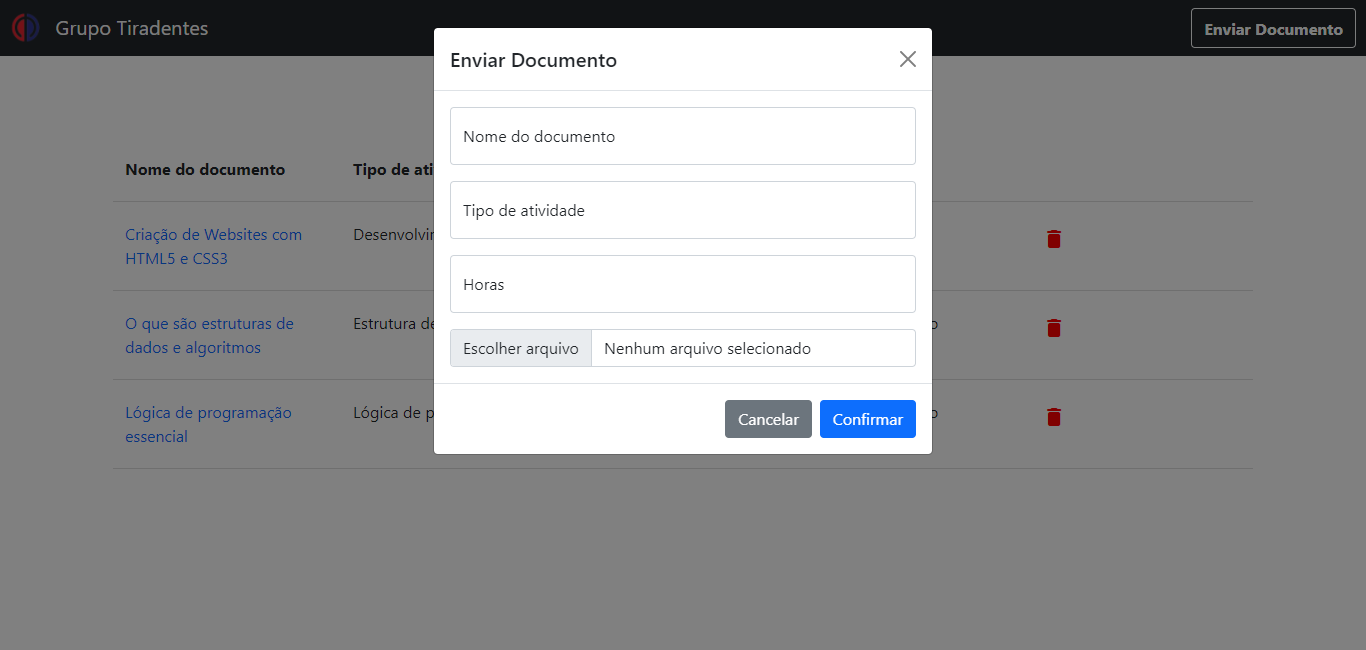
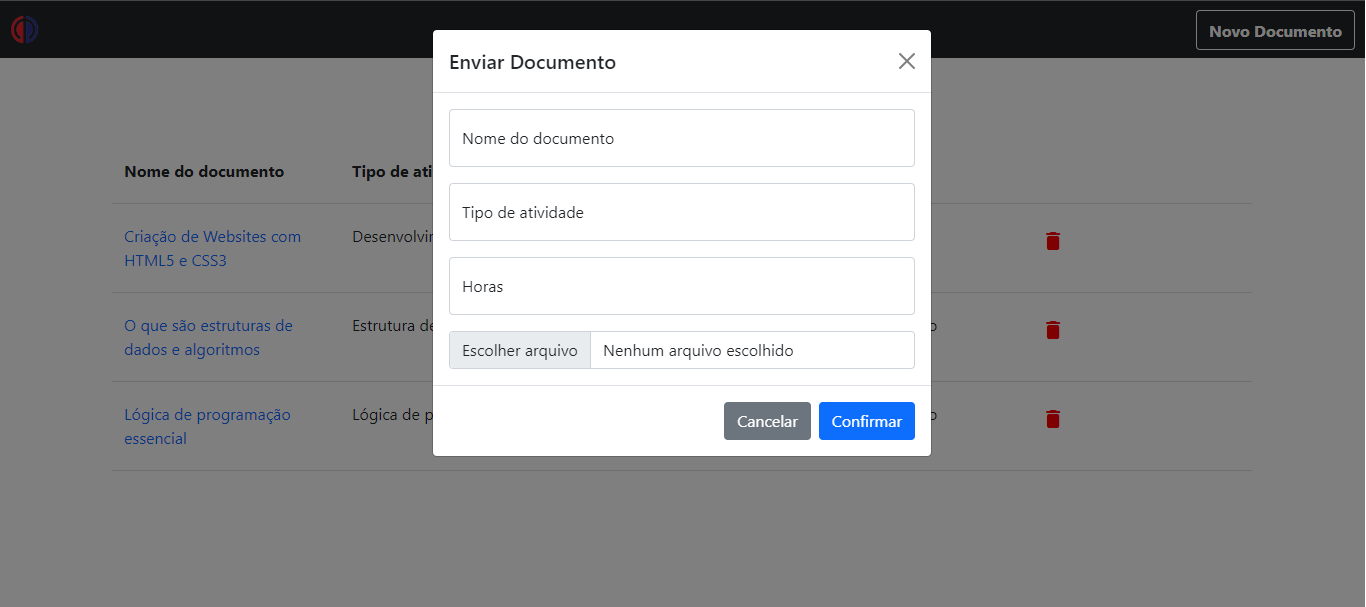
update README.md and screenshots images

diff --git a/index.php b/index.php
@@ -42,12 +42,11 @@ $select = $pdo->query("SELECT * FROM documentos");
         <div class="container" id="nav-container">
             <nav class="navbar navbar-light bg-dark fixed-top">
                 <a href="index.php" id="brand-name" class="navbar-brand">
-                    <img id="brand-img" src="img/logo.PNG" alt="Grupo tiradentes" width="30" height="30" class="d-inline-block align-text-top">
-                    Grupo Tiradentes
+                    <img id="brand-img" src="img/logo.PNG" alt="Logo" width="30" height="30" class="d-inline-block align-text-top">
                 </a>
                 <form class="form-inline">
                     <button id="btn_add" type="button" class="btn btn-outline-light" data-bs-toggle="modal" data-bs-target="#modalInsert">
-                        <strong class="align-middle">Enviar Documento</strong>
+                        <strong class="align-middle">Novo Documento</strong>
                     </button>
                 </form>
             </nav>
